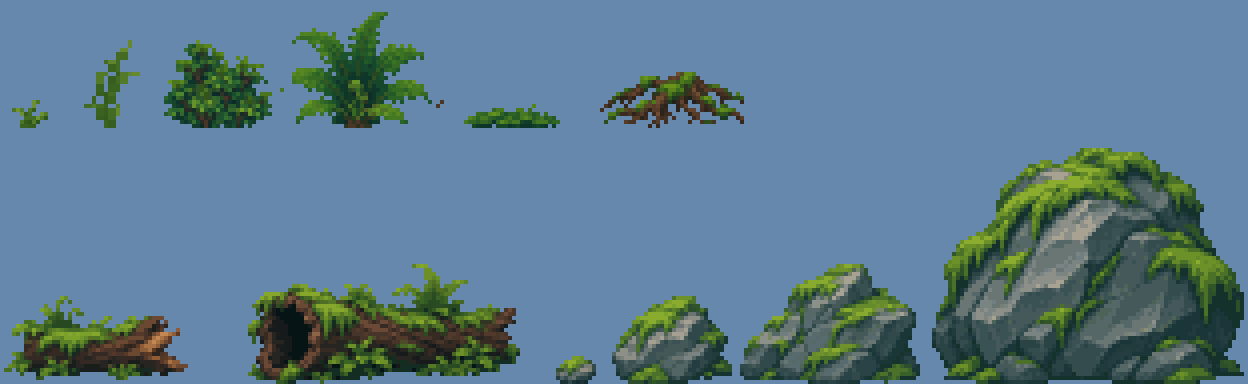
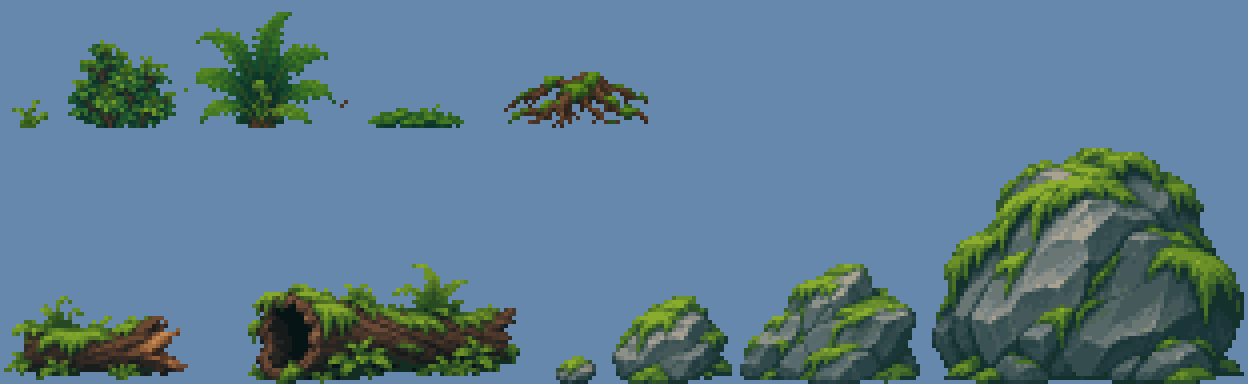
Remove tall grove grass and clean its legacy saved tiles safely

Changed region(s): [[0.0312, 0.0312, 0.5938, 0.3438]]

diff --git a/Systems/ForestMaterialMigration.cs b/Systems/ForestMaterialMigration.cs
@@ -7,6 +7,8 @@ using Terraria.ID;
 using Terraria.ModLoader;
 using SubworldLibrary;
 using IslandAdventure.Subworlds;
+using System.Reflection;
+using Terraria.ModLoader.Default;
 
 namespace IslandAdventure.Systems
 {
@@ -31,6 +33,24 @@ namespace IslandAdventure.Systems
             int stack = item.stack; bool favorite = item.favorited;
             item.SetDefaults(type); item.stack = stack; item.favorited = favorite;
         }
+        // Keep only the saved-name check for removed content; no tile type/asset is registered.
+        private static (PosData<ushort>[] lookup, System.Collections.Generic.HashSet<ushort> ids) RemovedPlants()
+        {
+            var ids=new System.Collections.Generic.HashSet<ushort>();
+            var io=typeof(Mod).Assembly.GetType("Terraria.ModLoader.IO.TileIO")?
+                .GetField("Tiles",BindingFlags.Static|BindingFlags.NonPublic)?.GetValue(null);
+            var entries=io?.GetType().GetField("entries")?.GetValue(io) as Array;
+            var lookup=io?.GetType().GetField("unloadedEntryLookup")?.GetValue(io) as PosData<ushort>[];
+            if(entries!=null&&lookup!=null)
+                for(int n=0;n<entries.Length;n++)
+                {
+                    var entry=entries.GetValue(n);if(entry==null)continue;
+                    var type=entry.GetType();
+                    if(type.GetField("modName")?.GetValue(entry) as string=="IslandAdventure"
+                        &&type.GetField("name")?.GetValue(entry) as string=="GroveTallGrass")ids.Add((ushort)n);
+                }
+            return (lookup,ids);
+        }
         public override void PreUpdateWorld()
         {
             if (!pending || Main.gameMenu || WorldGen.generatingWorld) return;
@@ -41,6 +61,7 @@ namespace IslandAdventure.Systems
             foreach (int id in new[] { ModContent.TileType<DarkSoilTile>(), ModContent.TileType<DarkGrassTile>(), ModContent.TileType<GroveGrass>(), ModContent.TileType<DarkStoneTile>(), ModContent.TileType<DarkWoodTile>(), ModContent.TileType<DarkPlantTile>(), ModContent.TileType<DarkVineTile>() })
                 mapping[id] = VanillaTile(id);
             bool island = SubworldSystem.IsActive<IslandSubworld>();
+            var removed=RemovedPlants();
             int minX = Main.maxTilesX, minY = Main.maxTilesY, maxX = 0, maxY = 0, changed = 0;
             for (int x = 1; x < Main.maxTilesX - 1; x++)
                 for (int y = 1; y < Main.maxTilesY - 1; y++)
@@ -48,7 +69,10 @@ namespace IslandAdventure.Systems
                     var tile = Main.tile[x,y]; bool altered = false;
                     if (tile.HasTile)
                     {
-                        if (mapping.TryGetValue(tile.TileType, out int type)) { tile.TileType = (ushort)type; altered = true; }
+                        if(removed.ids.Count>0&&TileLoader.GetTile(tile.TileType) is UnloadedTile
+                            &&removed.ids.Contains(removed.lookup.Lookup(x,y)))
+                        {tile.ClearTile();altered=true;}
+                        else if (mapping.TryGetValue(tile.TileType, out int type)) { tile.TileType = (ushort)type; altered = true; }
                     }
                     if (island && x >= 500 && x < Main.maxTilesX - 500
                         && tile.HasTile && tile.TileType is TileID.Grass or TileID.Plants or TileID.Plants2 or TileID.Vines or TileID.Trees

diff --git a/Systems/GrovePreviewSystem.cs b/Systems/GrovePreviewSystem.cs
@@ -14,7 +14,7 @@ namespace IslandAdventure.Systems
     {
         public const int GalleryWidth = 176;
         public const int GalleryHeight = 72;
-        private const int CurrentPlantLayout = 7;
+        private const int CurrentPlantLayout = 8;
         private const int CurrentTreeLayout = 2;
         public Rectangle Bounds { get; private set; }
         private Vector2 returnPosition;
@@ -148,7 +148,6 @@ namespace IslandAdventure.Systems
             EnsureTree(Bounds.Left+43,floor);
             EnsureTree(Bounds.Left+164,floor);
             foreach(int dx in new[]{8,12,39,72,158,172})Place<GroveTuft>(dx,floor);
-            foreach(int dx in new[]{21,24,168})Place<GroveTallGrass>(dx,floor);
             Place<GroveSmallBush>(29,floor);Place<GroveSmallFern>(35,floor);
             Place<GroveBush>(55,floor);Place<GroveFern>(66,floor);
             Place<GroveMoss>(48,floor);Place<GroveMoss>(154,floor);

diff --git a/Content/Tiles/GrovePlants.cs b/Content/Tiles/GrovePlants.cs
@@ -137,13 +137,6 @@ namespace IslandAdventure.Content.Tiles
         protected override int PlantHeight => 1;
         protected override bool Variants => true;
     }
-    public class GroveTallGrass : GrovePlant
-    {
-        public override float SwayAmplitude => 6f;
-        public override string Texture => "IslandAdventure/Assets/Grove/TallGrass";
-        protected override int PlantWidth => 3;
-        protected override int PlantHeight => 4;
-    }
     public class GroveSmallBush : GrovePlant
     {
         public override float SwayAmplitude => 4f;

diff --git a/README.md b/README.md
@@ -632,7 +632,6 @@ C# сборка без предупреждений и ошибок; это не
 | Объект | Игровая рамка, пиксели |
 |---|---:|
 | Низкая трава, три стиля | 32×16 |
-| Высокая трава | 48×64 |
 | Малый куст | 64×48 |
 | Малый папоротник | 80×64 |
 | Большой куст / папоротник | 112×80 / 128×96 |
@@ -710,7 +709,7 @@ headless-проверка игровые кадры не рисует.
 `python3 tools/render_grove_tree_preview.py`. Это статичная проверка стыков
 при нулевом ветре, со схематичной почвенной плоскостью, не скриншот клиента.
 
-В 0.4.8 добавлено покачивание семи видов живых растений: низкой/высокой
+В 0.4.8 добавлено покачивание шести видов живых растений: низкой
 травы, малых/больших кустов и папоротников, мха. Верх изгибается горизонтальными
 полосами, нижние четыре пикселя закреплены. Амплитуда различается по виду.
 Отрисовка через CustomNonSolid/SpecialDraw идёт с частотой игрового кадра;
@@ -810,8 +809,7 @@ headless-проверка игровые кадры не рисует.
 лиловыми, голубыми и приглушённо-розовыми лесными цветами. Цветочные варианты
 выбираются примерно в четверти мест; рисунок стабилен между кадрами и при
 созревании Plants в Plants2. Это декоративное оформление, не новые травы
-для зелий/красителей. Запреты роста 0.4.12 сохранены. Галерейные Tuft и
-TallGrass также обновлены с сохранением размеров объектов и размещения.
+для зелий/красителей. Запреты роста 0.4.12 сохранены. Галерейные Tuft также обновлены с сохранением размеров объектов и размещения.
 
 Лоза теперь шириной 16px вместо 32px, с четырьмя вариантами тонкого стебля
 и мелких листьев. Вся цепочка использует вариант своего корня; предусмотрены
@@ -828,3 +826,11 @@ TallGrass также обновлены с сохранением размеро
 кадров, сетка 2x2, бинарная альфа, отсутствие пустых рядов в четырёх лозах
 и стыки при повторении тела/переходе к кончику. Проверка движения и внешнего
 вида в графическом клиенте ещё нужна.
+
+0.4.17: удалён отдельный объект высокой травы — тип тайла, PNG, обе
+локализации, размещение в галерее и сборка атласа/превью. Раскладка образцов
+обновлена. Для старых миров оставлена только очистка удалённого объекта по
+сохранённым данным tModLoader: его части удаляются при загрузке без розовых
+заглушек; чужие блоки и другие отсутствующие объекты не затрагиваются.
+Сборка и серверные проверки прошли, включая очистку всех 12 частей старого
+объекта. В галерее теперь 13 видов декораций. Новый мир не требуется.

diff --git a/tools/art/grove/README.md b/tools/art/grove/README.md
@@ -12,7 +12,7 @@ Run `bash tools/build_grove_preview.sh` from the repository with ImageMagick 7.
 and variant counts. Each game tile is 16x16 with a 2px atlas gutter. Builders
 reduce artwork to logical resolution first, quantize colors and alpha, and
 then upscale 2x: native art pixels are exactly 2x2, with no partial alpha.
-Both low and tall grass use a narrow blade silhouette; all other silhouettes
+Low grass uses a narrow blade silhouette; all other silhouettes
 keep their natural aspect ratio. `ecosystem-preview.png` reconstructs the
 actual small sprites and enlarges them 2x, rather than showing source art.
 
@@ -71,7 +71,7 @@ actual top sample range with a schematic soil guide, not client screenshots.
 silhouettes and eight small woodland-flower variations. The dedicated
 `build_grove_ground_plants.sh` packs sixteen 32x32 frames into
 `Assets/Grove/GroundPlants.png` (512x32), and also replaces the gallery's
-Tuft/TallGrass art while preserving their native object footprints/atlas layouts.
+Tuft art while preserving their native object footprints/atlas layouts.
 Short grass is fitted to 14x7 logical pixels; taller grass to 12x14, flowers
 to 12x12 or 12x13. The runtime anchors all variants to the soil at the same
 baseline and deterministically chooses flowers about one quarter of the time.
